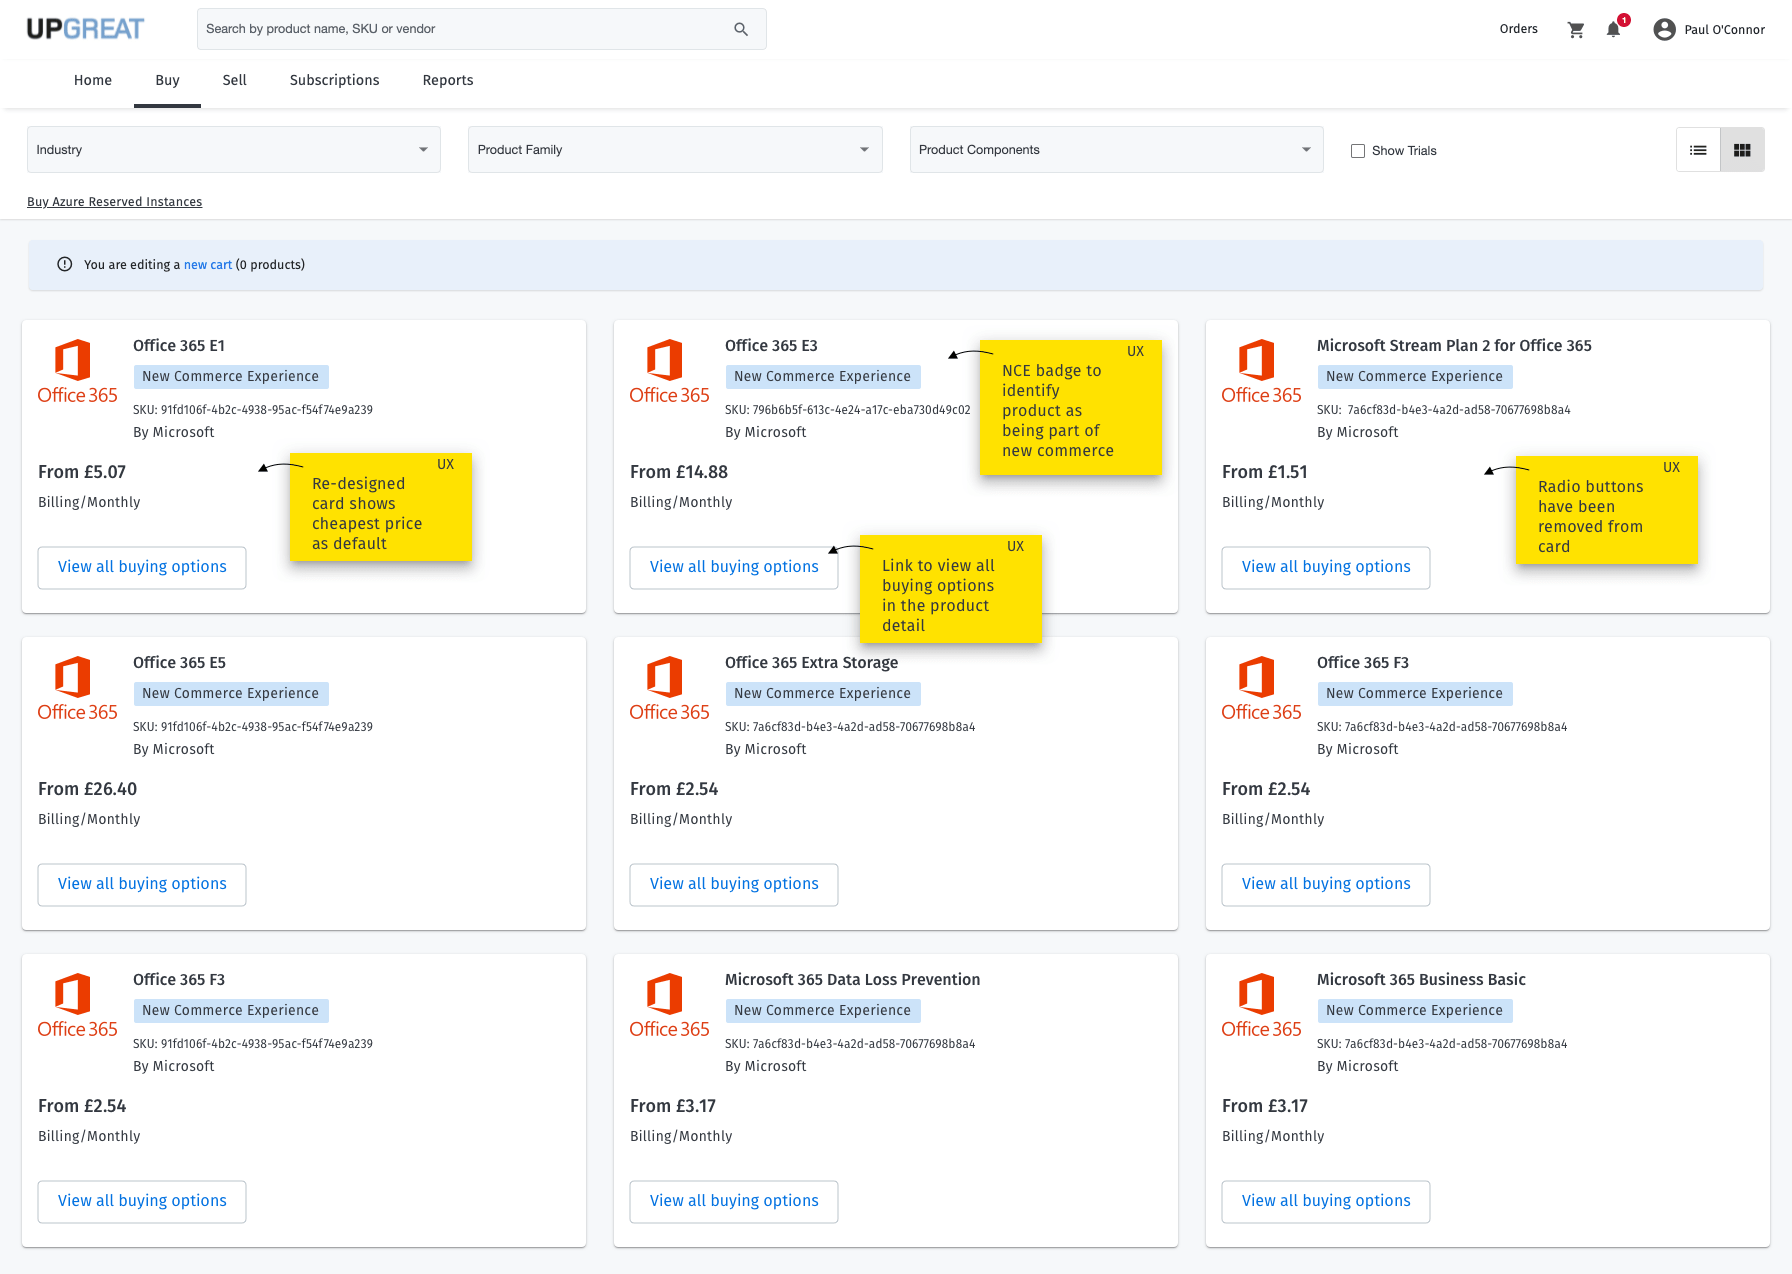
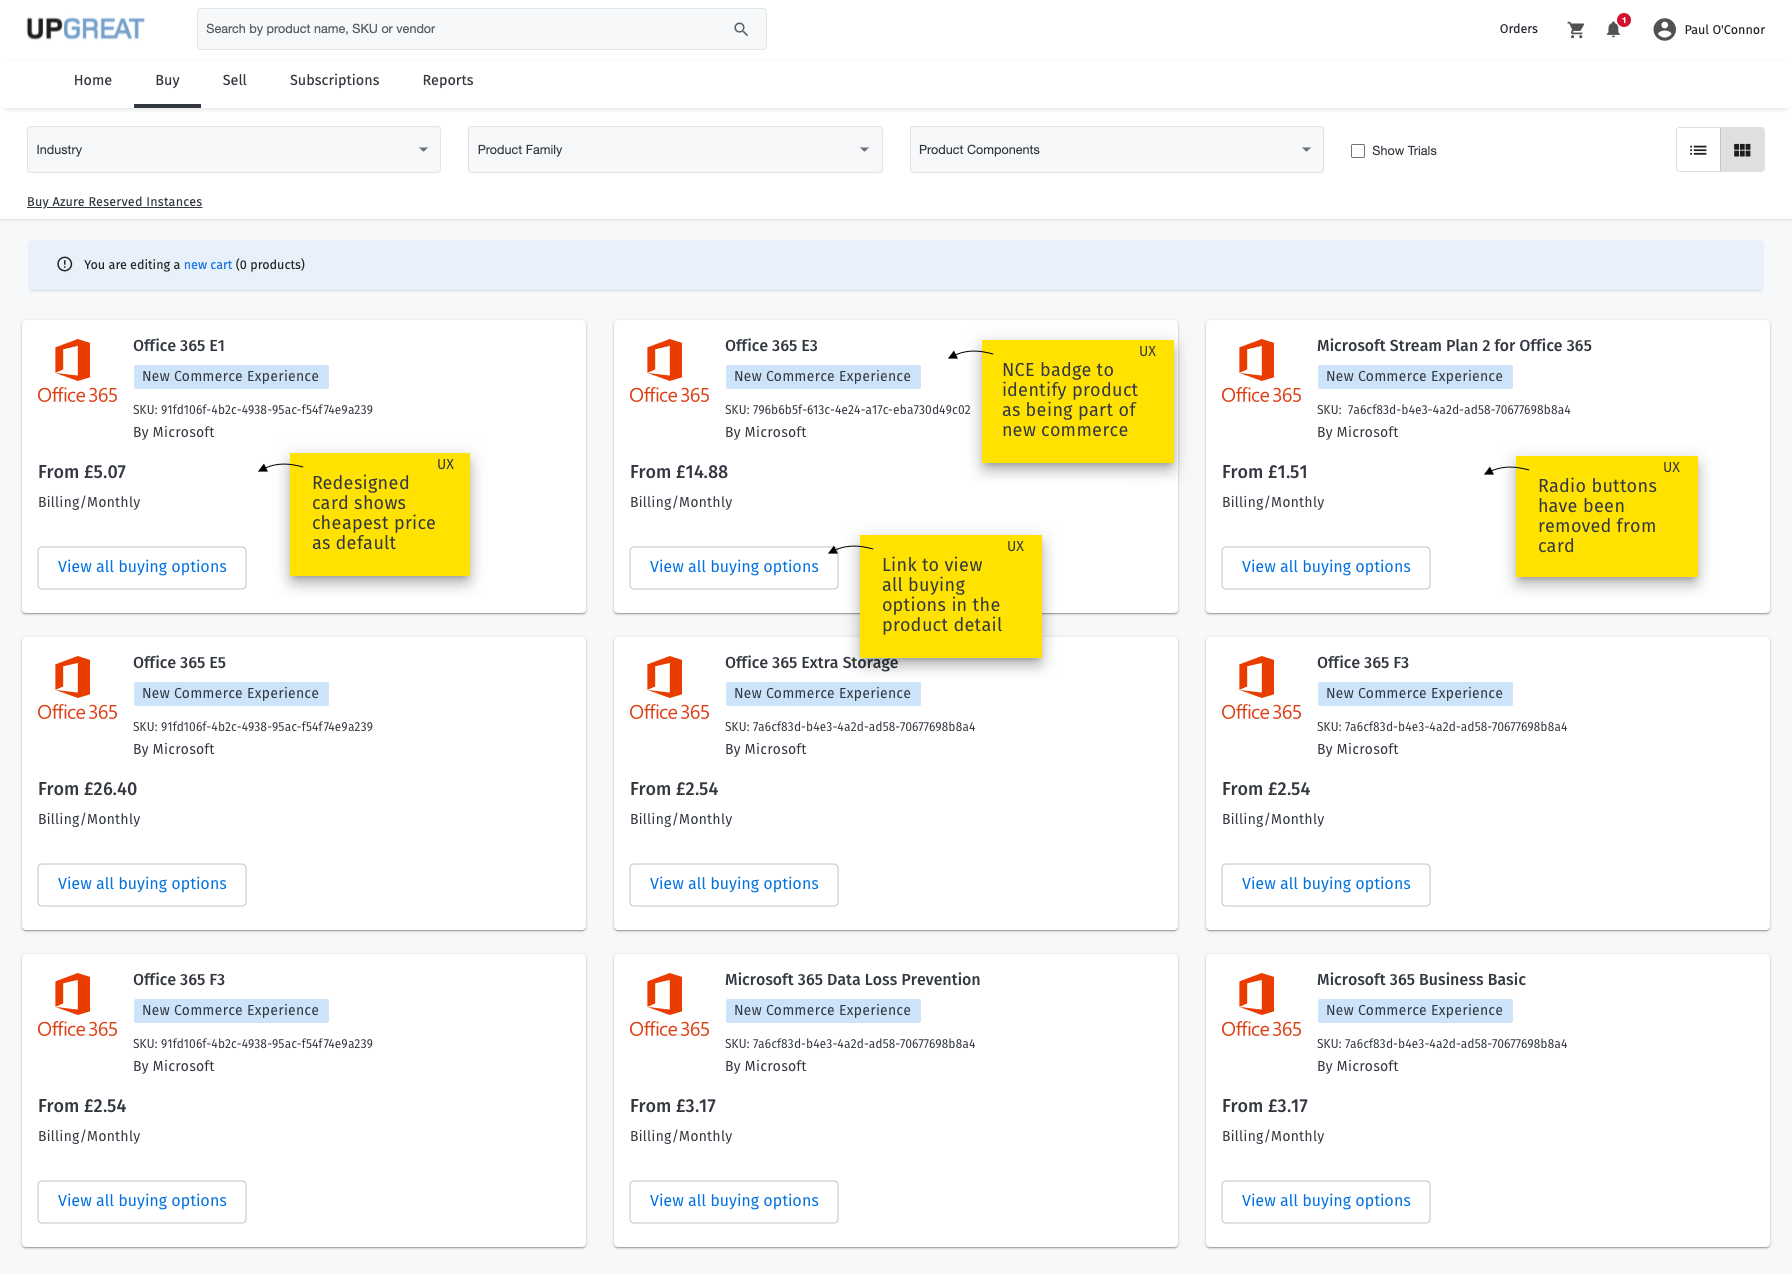
adding copy for buying card images

diff --git a/NCE.html b/NCE.html
@@ -125,12 +125,23 @@ experience. The project was undertaken from February-June 2022, in conjunction w
 	              <p class="portfolio-detail-body">
 	 As part of the New Commercial Experience Microsoft introduced an additional purchasing option that had to be brought into the portal. Up to this point there were two purchasing 
    options 1) Monthly Billing with a Monthly Commitment and 2) Yearly Billing with an Annual Commitment. The New Expereince added a third option - an Annual Commitment but with Monthly Billing.
-   Reviewing the portal it became clear that the purchasing cards being used would not be suitable for this additional buying option. This lead to a re-design of Product Cards, 
-   Shopping Cart and the Checkout pages.
+   Reviewing the portal it became clear that the purchasing cards being used would not be suitable for this additional buying option. This lead to a redesign of the Product Cards, 
+   Shopping Cart and Checkout pages.
 	         </p>
 	         </div>
 	         </div> <!--close row -->
 	         
+                  
+	         <div class="row">
+            <div class="col-xs-12">
+              <h3 class="number-subheading ">
+                Legacy Buying Card </h3>
+              <p class="portfolio-detail-body">
+ The existing product card design showed two purchasing options on the card in the product list view. The user could pick from one of these options and then add to cart immediately. 
+ This design could not be scaled to include a third buying option so a redesign of the product card was needed.
+         </p>
+         </div>
+         </div> <!--close row -->
 	               
 	         
            <div data-aos="fade-up" data-aos-duration="3000">
@@ -139,6 +150,22 @@ experience. The project was undertaken from February-June 2022, in conjunction w
          <img src="assets/images/Legacy_buying_cards-min.png" style="background-color:#FFF; " class="img-responsive" alt="Anna">
                         </div>
                         </div>
+
+                        <div class="row">
+                          <div class="col-xs-12">
+                            <h3 class="number-subheading ">
+                             New Commerce Buying Card </h3>
+                            <p class="portfolio-detail-body">
+            Consulting with the business it was decided that the monthly pricing option would be shown as the default as it was the cheapest option and it was the industry standard
+            for displaying ecommerce pricing terms. The user would now click on the 'View all buying options' button to be taken to the product detail where more pricing options are available.
+                       </p>
+                       </div>
+                       </div> <!--close row -->
+
+
+
+
+
 
                         <div class="row">     
           <div class="col-xs-12 col-sm-12 col-md-12 col-lg-12  image-padding">

diff --git a/assets/css/style.css b/assets/css/style.css
@@ -969,8 +969,10 @@ padding-top: 20px;
     
    
     .research-padding {
-        padding-top:100px;
+        padding-top:50px;
     }
+
+  
    
     .samsung-padding {
         padding-top:50px;
